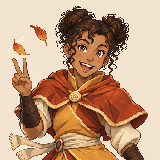
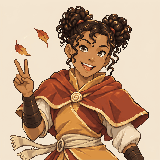
Redraw the Pella and Jinu portraits with calmer, truer hair
Pella's hair was noisy from dithering; Jinu's curls read as two smooth buns.
Both are redone with the B recipe from the hand-drawn originals at seed 23, with
hair wording added to portraits_b.py (6 credits each, booked as
t9_portrait_<id>_B_s23).

Claude-Session: https://claude.ai/code/session_01H8JDTPYztrZvUL5HBCK6eR

Changed region(s): [[0.0312, 0.0312, 0.9375, 1.0], [0.1875, 0.1562, 0.3125, 0.3125], [0.875, 0.75, 0.9062, 0.7812]]

diff --git a/prototypes/topdown/tools/portraits_b.py b/prototypes/topdown/tools/portraits_b.py
@@ -2,7 +2,8 @@
 
 Recipe: take the hand-drawn portrait (public/art/portraits/<id>.png), resize to 160x160 LANCZOS, run it through
 PixelLab /edit-image-pro-flash (method 'text', the B description below, seed 11, about 10 credits each).
-Run from this folder:  python3 portraits_b.py OUT_DIR id [id ...] [--seed N]
+Run from this folder:  python3 portraits_b.py OUT_DIR id [id ...] [--seed N] [--base-dir DIR]
+(--base-dir points at the pre-B hand-drawn portraits when redoing one; git show e1c545a7^:public/art/portraits/<id>.png)
 Every call is booked in ../ledger.json as t9_portrait_<id>_B (a retry adds _s<seed>).
 """
 import sys
@@ -51,13 +52,32 @@ CAST = {
 }
 
 
-def make(pid, out, seed=11):
+# Redo wording (2026-11-11 owner review, seed != 11). Pella: calm hair, little dithering. Jinu: her real hair is two
+# high round puffs of tight curls with small red ties plus a few loose ringlets at the temples (docs/art/prompts/portraits/jinu.md,
+# her top-down sprite), not two smooth buns.
+REDO = {
+ 'pella': dict(keep='her cheeky gap-toothed grin, dark pigtails with green ties, smudged cheeks, patched green vest, and the cabbage she hugs; '
+                    'draw the hair as a few large, calm, smooth shapes with one or two clean highlight bands and a clean outline, '
+                    'with no scattered stray pixels or flyaway noise, and use dithering only very sparingly, mostly flat colour ramps',
+               style_extra=' Clean, calm shapes; minimal dithering; no speckle.'),
+ 'jinu': dict(keep='her face, grey eyes, orange and red cloak with a spiral clasp over yellow, the peace sign, and the falling leaves; '
+                   'her hair is dark and tightly curly, gathered into two high round puffs of tight spiral curls each tied with a small red tie, '
+                   'with a few loose spiral ringlets at her temples; draw the curls as clustered curl shapes with highlights, not as two smooth buns, '
+                   'with a clean outline and no scattered stray pixels',
+              style_extra=' Clean, calm hair shapes; sparing dithering.'),
+}
+
+
+def make(pid, out, seed=11, base_dir=None):
     base, who, keep = CAST[pid]
-    src = Image.open(PORTRAITS / base).convert('RGBA')
+    style = STYLE
+    if seed != 11 and pid in REDO:
+        keep = REDO[pid]['keep']; style = STYLE + REDO[pid]['style_extra']
+    src = Image.open((Path(base_dir) if base_dir else PORTRAITS) / base).convert('RGBA')
     bg = Image.new('RGBA', src.size, CREAM + (255,)); bg.alpha_composite(src)
     canvas = bg.convert('RGB').resize((160, 160), Image.LANCZOS)
     name = f't9_portrait_{pid}_B' + ('' if seed == 11 else f'_s{seed}')
-    e, r = pl.run('/edit-image-pro-flash', {'image': pl.b64(canvas), 'method': 'text', 'description': STYLE.format(who=who, keep=keep),
+    e, r = pl.run('/edit-image-pro-flash', {'image': pl.b64(canvas), 'method': 'text', 'description': style.format(who=who, keep=keep),
                                             'no_background': False, 'seed': seed}, name, estimate=10)
     lr = r['final'].get('last_response') or r['final']; ims = []; pl.images(lr, ims)
     if not ims:
@@ -71,6 +91,9 @@ if __name__ == '__main__':
     args = sys.argv[1:]; seed = 11
     if '--seed' in args:
         i = args.index('--seed'); seed = int(args[i + 1]); del args[i:i + 2]
+    base_dir = None
+    if '--base-dir' in args:
+        i = args.index('--base-dir'); base_dir = args[i + 1]; del args[i:i + 2]
     out, ids = args[0], args[1:]
     Path(out).mkdir(parents=True, exist_ok=True)
-    for pid in ids: make(pid, out, seed)
+    for pid in ids: make(pid, out, seed, base_dir)
